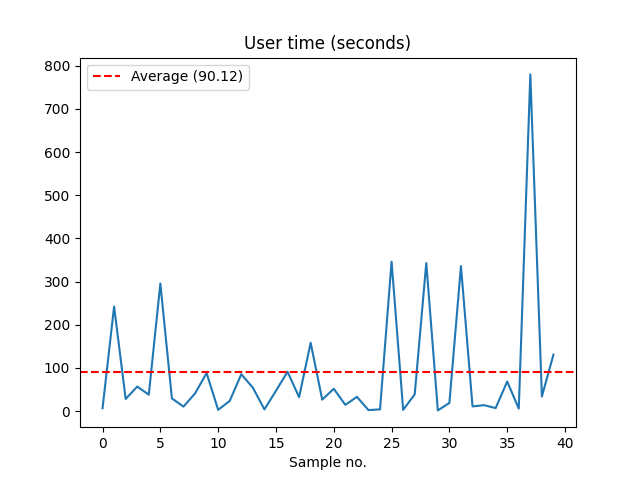
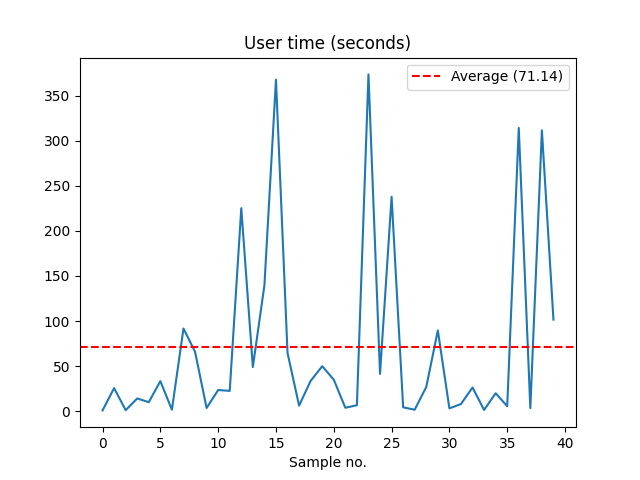
Update static analysis graphs with new tools

diff --git a/chapters/static_analysis.tex b/chapters/static_analysis.tex
@@ -278,7 +278,7 @@ Le prossime analisi si baseranno sui seguenti parametri di riferimento forniti s
         \textbf{Parametro}             & \textbf{Valore (al mese)}       \\ \hline
         Numero di sample da analizzare & 1.000.000                       \\
         Memoria media richiesta        & 512 MB (limite massimo: 1024MB) \\
-        Tempi medio di esecuzione      & 90 secondi                      \\ \hline
+        Tempi medio di esecuzione      & 70 secondi                      \\ \hline
     \end{tabular}
 \end{table}
 
